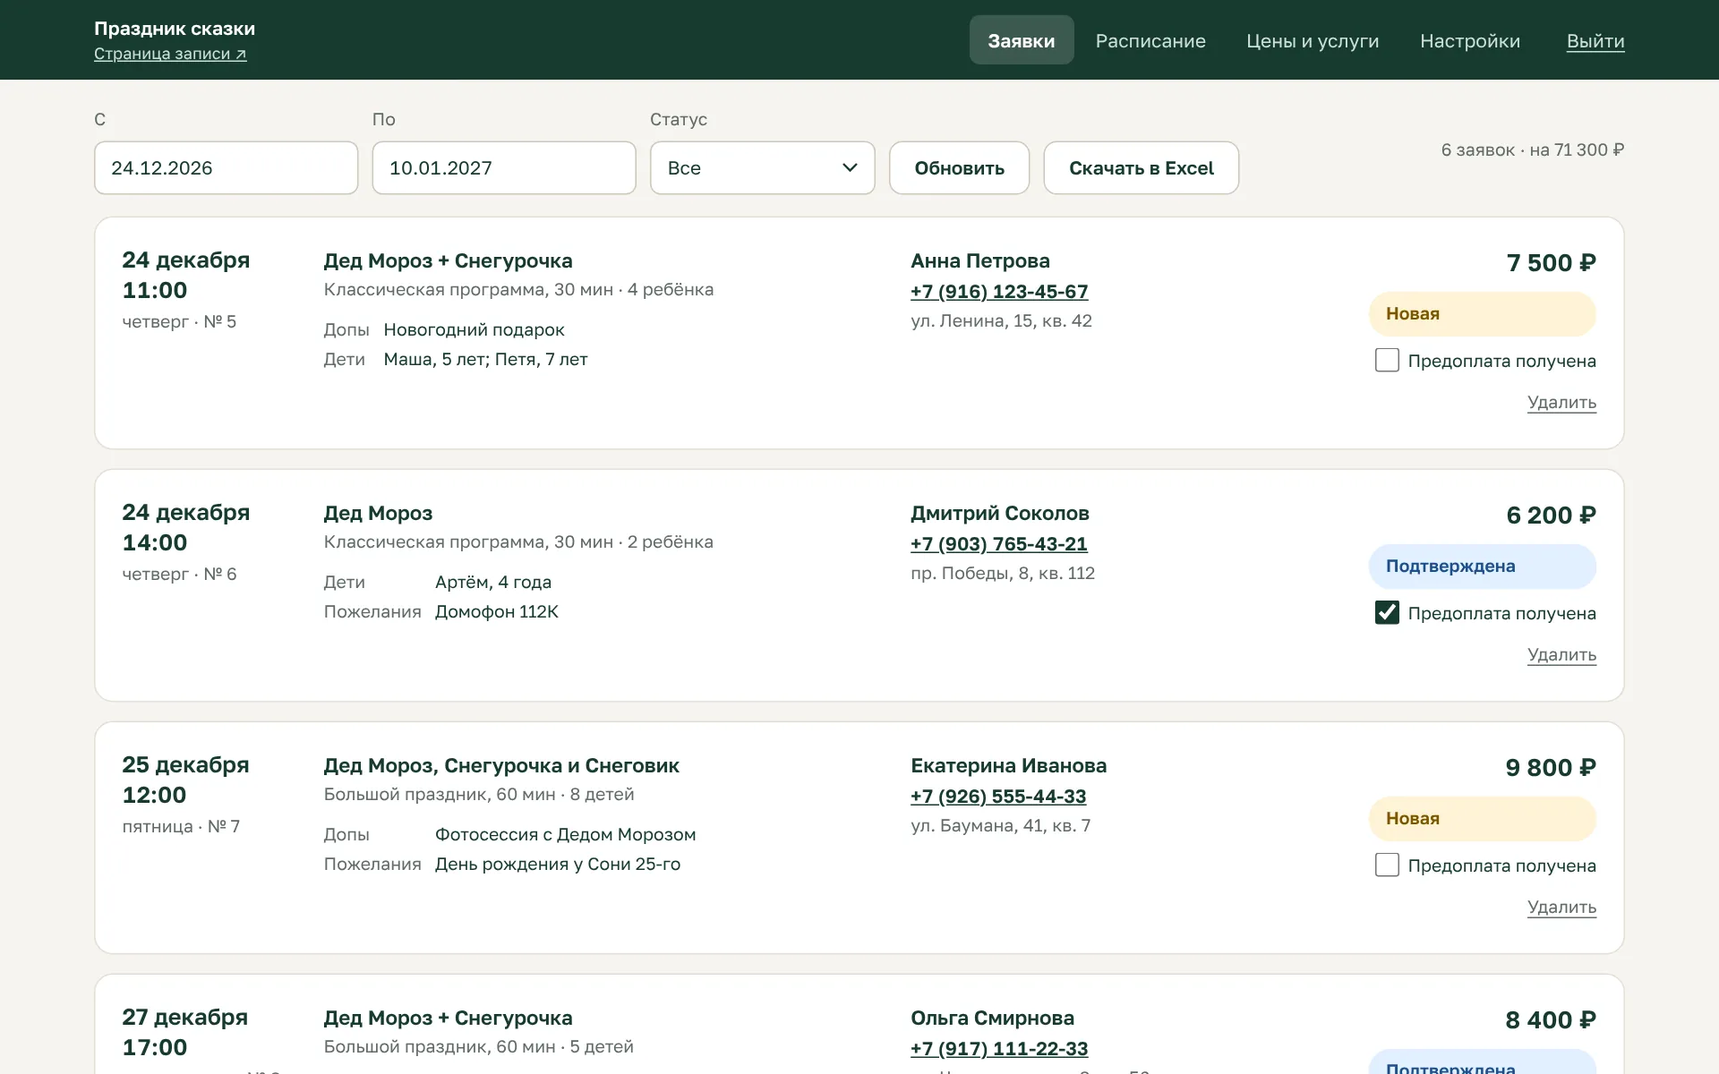
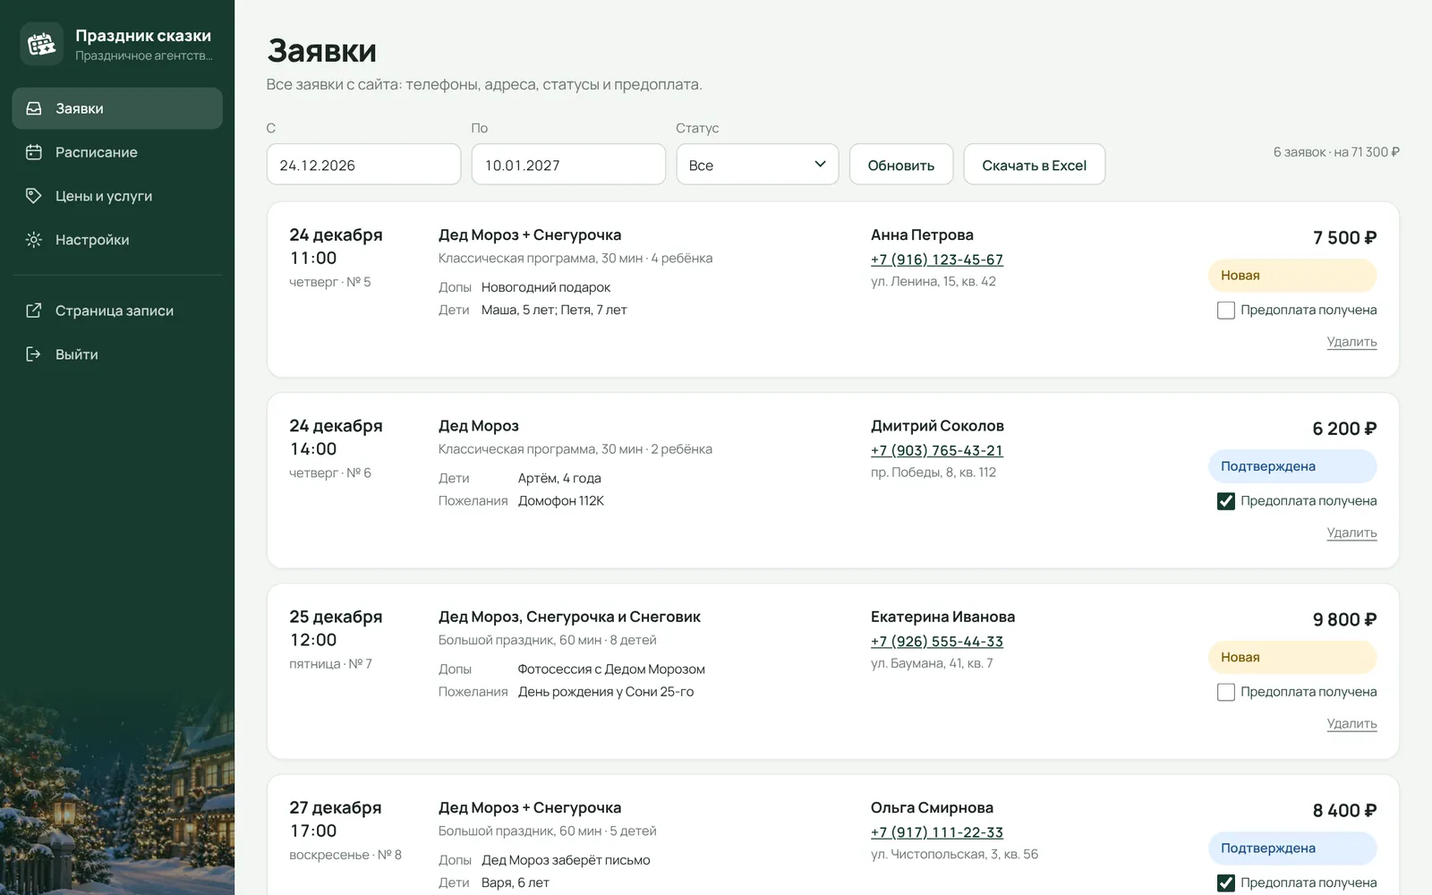
Главная: новый логотип, фото Деда Мороза в витрине, понятные формулировки, блок панели шагами 1→2→3 со свежими скриншотами, кнопка «Оформить абонемент», подвал на телефоне

diff --git a/assets/landing.js b/assets/landing.js
@@ -24,6 +24,7 @@
   function text(id, v) { if ($(id)) $(id).textContent = v || ""; }
 
   var STRIP_ICONS = ["i-clock", "i-shield", "i-tg"];
+  var V3_KEYS = ["strip", "heroLead"]; // «Ни одной двойной брони» заменено на понятный текст
   var V2_KEYS = ["heroBadge", "heroTitle", "heroAccent", "heroLead", "regButton", "ctaNote", "demoButton", "contactButton", "strip", "itemsLead", "items", "steps", "faq", "finalText"];
   var FEAT_ICONS = ["i-calc", "i-check-cal", "i-inbox", "i-sliders"];
 
@@ -32,6 +33,7 @@
     if (defaults && d.heroBadge == null) d = { telegram: d.telegram, demoSlug: d.demoSlug, items: d.items, steps: d.steps, faq: d.faq };
     // Тексты, сохранённые до бесплатного периода и регистрации: первый экран, шаги и вопросы берём новые
     if (defaults && (+d.v || 0) < 2) V2_KEYS.forEach(function (k) { delete d[k]; });
+    if (defaults && (+d.v || 0) < 3) V3_KEYS.forEach(function (k) { delete d[k]; });
     // поля, которых нет в сохранённой версии, берём из текстов по умолчанию
     Object.keys(defaults || {}).forEach(function (k) { if (d[k] == null || d[k] === "" || (Array.isArray(d[k]) && !d[k].length)) d[k] = defaults[k]; });
     ["heroBadge", "heroTitle", "heroAccent", "heroLead", "ctaNote", "itemsTitle", "itemsLead", "stepsTitle", "priceTitle", "priceFreeTitle", "priceFreeText", "pricePaidTitle", "pricePaidSum", "pricePaidText", "priceNote", "faqTitle", "finalTitle", "finalText", "footer", "footerTagline"].forEach(function (k) { text(k, d[k]); });
@@ -41,7 +43,8 @@
     text("demoButtonText", d.demoButton); text("finalDemoText", d.finalDemoButton); text("finalContactText", d.finalContactButton);
     text("loginText", d.loginLink || "Вход для агентств");
     var tg = safeUrl(d.telegram, "https://t.me/rodionfrontend");
-    ["tgFoot", "finalContactButton"].forEach(function (id) { $(id).href = tg; });
+    ["tgFoot", "finalContactButton", "buyButton"].forEach(function (id) { if ($(id)) $(id).href = tg; });
+    text("buyButtonText", d.buyButton || "Оформить абонемент");
     var demo = /^[a-z0-9-]{2,40}$/.test(d.demoSlug || "") ? d.demoSlug : "demo";
     var demoHref = location.hostname.endsWith("github.io") ? "zapis.html?a=" + demo : demo;
     ["demoButton", "finalDemoButton", "dcButton"].forEach(function (id) { $(id).href = demoHref; });
@@ -55,24 +58,20 @@
     $("faq").innerHTML = (d.faq || []).map(function (x) { return "<details><summary>" + esc(x.q) + "</summary><p>" + esc(x.a) + "</p></details>"; }).join("");
   }
 
-  /* ---------- скриншоты панели с подписями ---------- */
+  /* ---------- панель: общий вид и три шага по порядку ---------- */
   var SHOTS = [
-    { tab: "Заявки", img: "orders", pins: [
-      [3.6, 24, "Все заявки в одном списке: дата, время, состав, допы и сумма"],
-      [50.3, 27.2, "Телефон и адрес клиента сразу, без переписки"],
-      [77.2, 29.2, "Статус меняется в одно нажатие"],
-      [77.2, 57.1, "Отметка, что предоплата получена"],
-      [73.6, 15.6, "Все заявки таблицей для Excel"]] },
-    { tab: "Расписание", img: "schedule", pins: [
-      [3.6, 47.7, "Загрузка по часам: сколько выездов свободно"],
-      [33.4, 24.7, "Закрыть час или весь день, если вы заняты"],
-      [66.4, 24, "Заказ по телефону: время сразу закрывается на странице"],
-      [97.2, 53, "Закрытое время возвращается одной кнопкой"]] },
-    { tab: "Цены и услуги", img: "prices", pins: [
-      [3.6, 29.3, "Свои составы с фото"],
-      [33.3, 23.7, "Названия и подписи — какие нужно"],
-      [80.2, 23.7, "Плашка «Чаще всего выбирают» на нужном составе"],
-      [3.6, 74.3, "Программы и их длительность"]] }
+    { tab: "Заявки", img: "orders", steps: [
+      "Каждая заявка — карточкой: дата, время, состав, дети, телефон и адрес",
+      "Статус и отметка о предоплате — в одно нажатие",
+      "Фильтр по датам и статусу, все заявки таблицей для Excel"] },
+    { tab: "Расписание", img: "schedule", steps: [
+      "Загрузка по часам: видно, сколько выездов свободно",
+      "Заказ по телефону: это время сразу закрывается на сайте",
+      "Закрытое время возвращается одной кнопкой"] },
+    { tab: "Цены и услуги", img: "prices", steps: [
+      "Свои составы с фото. Ненужный можно скрыть со страницы",
+      "Программы и длительность визита",
+      "Цены для каждого состава и программы"] }
   ];
   var shotCur = 0;
   function drawShot() {
@@ -82,10 +81,9 @@
     }).join("");
     $("shotImg").src = "assets/img/panel/" + s.img + ".webp";
     $("shotImg").alt = "Панель управления, раздел «" + s.tab + "»";
-    // Положение задаём через style из скрипта: атрибут style в разметке запрещён политикой безопасности страницы
-    var pins = $("shotPins"); pins.textContent = "";
-    s.pins.forEach(function (p, i) { var el = document.createElement("span"); el.className = "pin"; el.textContent = i + 1; el.style.left = p[0] + "%"; el.style.top = p[1] + "%"; pins.appendChild(el); });
-    $("shotNotes").innerHTML = s.pins.map(function (p) { return "<li>" + esc(p[2]) + "</li>"; }).join("");
+    $("shotSteps").innerHTML = s.steps.map(function (t, i) {
+      return '<li><div class="step-top"><span class="step-n">' + (i + 1) + "</span><p>" + esc(t) + '</p></div><img src="assets/img/panel/' + s.img + "-" + (i + 1) + '.webp" alt="" loading="lazy"></li>';
+    }).join("");
   }
   document.addEventListener("click", function (e) {
     var b = e.target.closest ? e.target.closest("[data-shot]") : null;

diff --git a/index.html b/index.html
@@ -8,14 +8,14 @@
   <meta name="theme-color" content="#0E1A33">
   <title>Онлайн-запись и учёт заявок для агентств праздников — Бронь Праздник</title>
   <meta name="description" content="Страница записи для агентств праздников: родители сами выбирают программу, дату и время и сразу видят цену, а вы получаете готовую заявку.">
-  <link rel="icon" href="assets/img/favicon.svg" type="image/svg+xml">
+  <link rel="icon" href="assets/img/logo-icon.svg" type="image/svg+xml">
   <link rel="preload" href="assets/fonts/manrope-cyrillic-800-normal.woff2" as="font" type="font/woff2" crossorigin>
   <link rel="stylesheet" href="assets/landing.css?v=dev">
 </head>
 <body class="landing">
   <header class="top">
     <div class="wrap top-in">
-      <a class="brand" href="./" aria-label="Бронь Праздник, на главную"><svg aria-hidden="true"><use href="#i-flake"/></svg><span>Бронь Праздник</span></a>
+      <a class="brand" href="./" aria-label="Бронь Праздник, на главную"><img src="assets/img/logo-white.svg" alt="" width="40" height="33"><span>Бронь Праздник</span></a>
       <nav class="menu" aria-label="Разделы">
         <a href="#features">Возможности</a>
         <a href="#panel">Панель</a>
@@ -47,7 +47,7 @@
 
       <!-- Живая витрина: как выглядит запись для родителей -->
       <div class="demo-card" aria-label="Пример страницы записи">
-        <div class="dc-head"><span class="dc-brand"><svg aria-hidden="true"><use href="#i-flake"/></svg>Праздник сказки</span><span class="dc-user"><svg aria-hidden="true"><use href="#i-user"/></svg></span></div>
+        <div class="dc-head"><span class="dc-brand"><svg aria-hidden="true"><use href="#i-tree"/></svg>Праздник сказки</span><span class="dc-user"><svg aria-hidden="true"><use href="#i-user"/></svg></span></div>
         <div class="dc-body">
           <div class="dc-cal">
             <div class="dc-month"><svg aria-hidden="true"><use href="#i-left"/></svg><b>Декабрь 2026</b><svg aria-hidden="true"><use href="#i-right"/></svg></div>
@@ -58,7 +58,7 @@
           </div>
           <div class="dc-sum">
             <p class="dc-title">Ваша бронь</p>
-            <div class="dc-who"><span class="dc-ava"><svg aria-hidden="true"><use href="#i-santa"/></svg></span><span><b>Дед Мороз</b><small>Новогодняя программа</small></span></div>
+            <div class="dc-who"><span class="dc-ava"><img src="assets/img/demo/santa.webp" alt="" width="52" height="52"></span><span><b>Дед Мороз</b><small>Новогодняя программа</small></span></div>
             <p class="dc-line"><svg aria-hidden="true"><use href="#i-cal"/></svg><span id="dcWhen">5 декабря, 12:30</span></p>
             <p class="dc-line"><svg aria-hidden="true"><use href="#i-pin"/></svg><span>В черте города</span></p>
             <p class="dc-total"><span>Итого</span><b id="dcTotal">4 500 ₽</b></p>
@@ -90,13 +90,11 @@
       </div>
       <div class="shots">
         <div class="shot-tabs" role="tablist" aria-label="Разделы панели" id="shotTabs"></div>
-        <div class="shot-stage">
-          <figure class="shot-frame">
-            <div class="shot-bar" aria-hidden="true"><i></i><i></i><i></i><span>bronprazdnik.ru/admin</span></div>
-            <div class="shot-img"><img id="shotImg" src="assets/img/panel/orders.webp" width="1920" height="1200" alt="" loading="lazy"><div class="shot-pins" id="shotPins"></div></div>
-          </figure>
-          <ol class="shot-notes" id="shotNotes"></ol>
-        </div>
+        <figure class="shot-frame">
+          <div class="shot-bar" aria-hidden="true"><i></i><i></i><i></i><span>bronprazdnik.ru/admin</span></div>
+          <img id="shotImg" src="assets/img/panel/orders.webp" width="1600" height="1000" alt="" loading="lazy">
+        </figure>
+        <ol class="shot-steps" id="shotSteps"></ol>
       </div>
     </div>
   </section>
@@ -123,6 +121,7 @@
           <p class="p-sum" id="pricePaidSum"></p>
           <p class="p-text" id="pricePaidText"></p>
           <p class="p-seats" id="priceSeats" hidden></p>
+          <a class="btn btn-dark" id="buyButton" href="https://t.me/rodionfrontend" target="_blank" rel="noopener noreferrer"><svg aria-hidden="true"><use href="#i-tg"/></svg><span id="buyButtonText">Оформить абонемент</span></a>
         </article>
       </div>
       <p class="p-note" id="priceNote"></p>
@@ -153,7 +152,7 @@
 
   <footer class="foot">
     <div class="wrap foot-in">
-      <a class="brand" href="./"><svg aria-hidden="true"><use href="#i-flake"/></svg><span>Бронь Праздник</span></a>
+      <a class="brand" href="./"><img src="assets/img/logo-white.svg" alt="" width="40" height="33"><span>Бронь Праздник</span></a>
       <nav class="foot-menu" aria-label="Разделы">
         <a href="#features">Возможности</a>
         <a href="#panel">Панель</a>

diff --git a/assets/landing.css b/assets/landing.css
@@ -368,3 +368,55 @@ html.no-anim { scroll-behavior: auto; }
 /* Подписи полей регистрации выводятся стилем, а не текстом: по тексту «Город», «Почта», «Адрес»
    Chrome узнаёт поля и предлагает сохранённые адреса, не слушая запрет автозаполнения */
 .auth-card .lt::before { content: attr(data-t); }
+
+/* Новый логотип: календарь с билетом */
+.brand img { width: 42px; height: auto; flex: none; }
+@media (max-width: 680px) { .brand img { width: 34px; } }
+@media (max-width: 480px) { .top .brand img { width: 30px; } }
+
+/* Фото Деда Мороза в витрине */
+.dc-ava { overflow: hidden; }
+.dc-ava img { width: 100%; height: 100%; object-fit: cover; object-position: 50% 15%; display: block; }
+
+/* Панель: общий вид и шаги 1 → 2 → 3 */
+.shot-frame img { display: block; width: 100%; height: auto; }
+.shot-steps { list-style: none; margin: 22px 0 0; padding: 0; display: grid; grid-template-columns: repeat(3, minmax(0, 1fr)); gap: 18px; }
+.shot-steps li { position: relative; background: var(--card); border: 1px solid var(--line); border-radius: var(--r); padding: 18px; display: flex; flex-direction: column; gap: 14px; }
+.shot-steps li + li::before { content: ""; position: absolute; left: -15px; top: 30px; width: 12px; height: 12px; border-top: 2px solid var(--red); border-right: 2px solid var(--red); transform: rotate(45deg); }
+.step-top { display: grid; grid-template-columns: 34px minmax(0, 1fr); gap: 12px; align-items: start; }
+.step-n { width: 34px; height: 34px; border-radius: 50%; background: var(--red); color: #fff; font-weight: 800; font-size: 16px; display: grid; place-items: center; }
+.step-top p { font-weight: 700; font-size: 16px; line-height: 1.35; padding-top: 5px; }
+.shot-steps img { display: block; width: 100%; height: auto; margin-top: auto; border-radius: 10px; border: 1px solid var(--line); box-shadow: 0 8px 20px rgba(20, 33, 61, .08); }
+@media (max-width: 1060px) {
+  .shot-steps { grid-template-columns: 1fr; }
+  .shot-steps li + li::before { left: 34px; top: -15px; transform: rotate(135deg); }
+}
+@media (max-width: 680px) {
+  .shot-frame { display: none; }
+  .shot-steps { margin-top: 16px; gap: 22px; }
+  .shot-steps li { padding: 16px; }
+  .step-top p { font-size: 16px; }
+}
+
+/* Кнопка покупки абонемента */
+.btn-dark { background: var(--night); color: #fff; margin-top: 12px; }
+.btn-dark:hover { background: #1B2B52; }
+.p-card .p-seats { margin-top: auto; }
+.p-card .p-seats + .btn-dark { margin-top: 14px; }
+@media (max-width: 680px) { .p-card .btn-dark { width: 100%; } }
+
+/* Подвал на телефоне: логотип строкой, кнопки входа и Telegram — отдельной строкой ниже меню */
+@media (max-width: 680px) {
+  .foot-in { grid-template-columns: 1fr; }
+  .foot-in > .brand { grid-row: 1; }
+  .foot-menu { grid-row: 2; }
+  .foot-acts { grid-row: 3; flex-wrap: wrap; gap: 12px 16px; }
+}
+/* общий вид панели на компьютере — только верхняя часть экрана */
+.shot-frame { max-height: 600px; }
+.shot-frame img { object-fit: cover; object-position: top; }
+.shot-steps img { margin-top: 0; }
+@media (max-width: 680px) {
+  .shot-tabs { display: grid; grid-template-columns: repeat(3, minmax(0, 1fr)); gap: 4px; padding: 4px; border-radius: 14px; }
+  .shot-tabs button { padding: 10px 4px; font-size: 13px; }
+}

diff --git a/admin/admin.js b/admin/admin.js
@@ -659,7 +659,7 @@
   var siteEd = {}, siteData = null;
   var SITE_FIELDS = [
     ["Первый экран", [["heroBadge", "Плашка над заголовком"], ["heroTitle", "Заголовок, белая часть"], ["heroAccent", "Заголовок, золотая строка"], ["heroLead", "Подзаголовок", "area"], ["regButton", "Кнопка регистрации"], ["demoButton", "Кнопка демо"], ["ctaNote", "Строка под кнопками"]]],
-    ["Сколько стоит", [["priceTitle", "Заголовок"], ["priceFreeTitle", "Бесплатно: когда"], ["priceFreeText", "Бесплатно: текст", "area"], ["pricePaidTitle", "Платно: когда"], ["pricePaidSum", "Цена (показывается и в плашке у агентств)"], ["pricePaidText", "Платно: текст", "area"], ["seatsLeft", "Осталось мест по этой цене (пусто — не показывать)"], ["seatsTotal", "Всего мест по этой цене"], ["priceNote", "Строка под карточками", "area"]]],
+    ["Сколько стоит", [["priceTitle", "Заголовок"], ["priceFreeTitle", "Бесплатно: когда"], ["priceFreeText", "Бесплатно: текст", "area"], ["pricePaidTitle", "Платно: когда"], ["pricePaidSum", "Цена (показывается и в плашке у агентств)"], ["pricePaidText", "Платно: текст", "area"], ["buyButton", "Кнопка покупки (ведёт в Telegram)"], ["seatsLeft", "Осталось мест по этой цене (пусто — не показывать)"], ["seatsTotal", "Всего мест по этой цене"], ["priceNote", "Строка под карточками", "area"]]],
     ["Блок возможностей", [["itemsTitle", "Заголовок"], ["itemsLead", "Текст под заголовком", "area"], ["stepsTitle", "Заголовок шагов"], ["faqTitle", "Заголовок вопросов"]]],
     ["Баннер внизу", [["finalTitle", "Заголовок"], ["finalText", "Текст", "area"], ["finalDemoButton", "Кнопка демо"], ["finalContactButton", "Кнопка Telegram"]]],
     ["Ссылки и подвал", [["telegram", "Telegram (https://t.me/...)"], ["demoSlug", "Адрес демо-агентства"], ["footer", "Строка слева в подвале"], ["footerTagline", "Строка справа в подвале"]]]
@@ -676,6 +676,7 @@
         if (saved.heroBadge == null) saved = { telegram: saved.telegram, demoSlug: saved.demoSlug, items: saved.items, steps: saved.steps, faq: saved.faq };
         // сохранённые до бесплатного периода: первый экран, шаги и вопросы берём новые (как на самой главной)
         if ((+saved.v || 0) < 2) ["heroBadge", "heroTitle", "heroAccent", "heroLead", "regButton", "ctaNote", "demoButton", "contactButton", "strip", "itemsLead", "items", "steps", "faq", "finalText"].forEach(function (k) { delete saved[k]; });
+        if ((+saved.v || 0) < 3) { delete saved.strip; delete saved.heroLead; }
         Object.keys(def).forEach(function (k) { if (saved[k] == null || (Array.isArray(saved[k]) && !saved[k].length)) saved[k] = def[k]; });
         return saved;
       });

diff --git a/api/admin.php b/api/admin.php
@@ -419,9 +419,9 @@ switch ($action) {
         $clean = function ($v, $max) { return mb_substr(trim((string)$v), 0, $max); };
         $out = [];
         foreach (['telegram', 'heroBadge', 'heroTitle', 'heroAccent', 'heroLead', 'regButton', 'ctaNote', 'demoButton', 'contactButton', 'loginLink', 'itemsTitle', 'itemsLead', 'stepsTitle',
-            'priceTitle', 'priceFreeTitle', 'priceFreeText', 'pricePaidTitle', 'pricePaidSum', 'pricePaidText', 'seatsLeft', 'seatsTotal', 'priceNote',
+            'priceTitle', 'priceFreeTitle', 'priceFreeText', 'pricePaidTitle', 'pricePaidSum', 'pricePaidText', 'buyButton', 'seatsLeft', 'seatsTotal', 'priceNote',
             'faqTitle', 'finalTitle', 'finalText', 'finalDemoButton', 'finalContactButton', 'footer', 'footerTagline', 'demoSlug'] as $k) $out[$k] = $clean($d[$k] ?? '', 600);
-        $out['v'] = 2;
+        $out['v'] = 3;
         foreach (['strip' => ['title'], 'items' => ['title', 'text'], 'steps' => ['title', 'text'], 'faq' => ['q', 'a']] as $list => $keys) {
             $out[$list] = [];
             foreach (array_slice((array)($d[$list] ?? []), 0, 20) as $row) { $r = []; foreach ($keys as $k) $r[$k] = $clean($row[$k] ?? '', 1000); if (implode('', $r) !== '') $out[$list][] = $r; }
